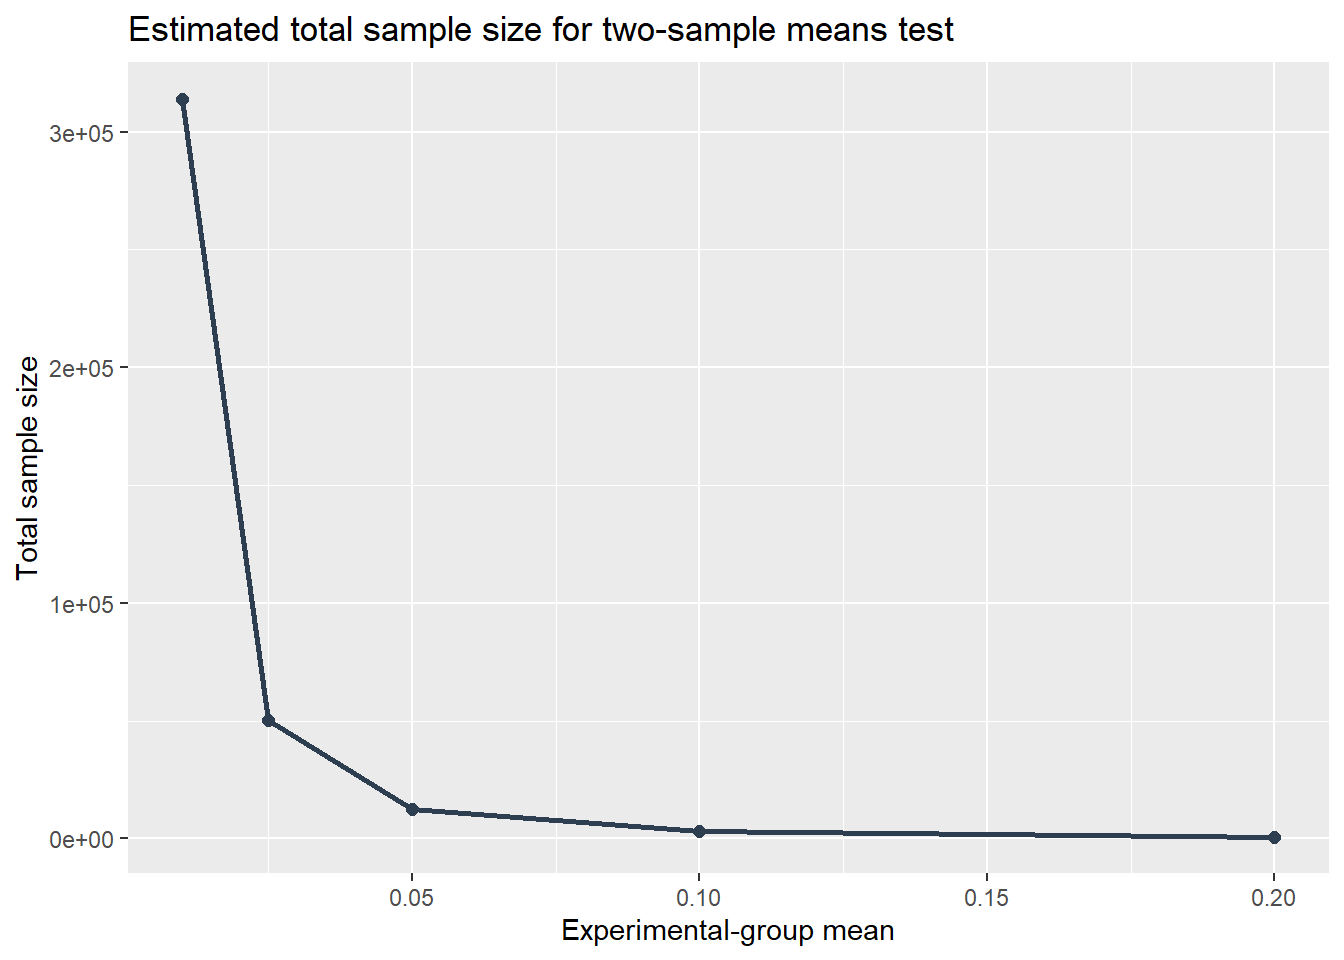
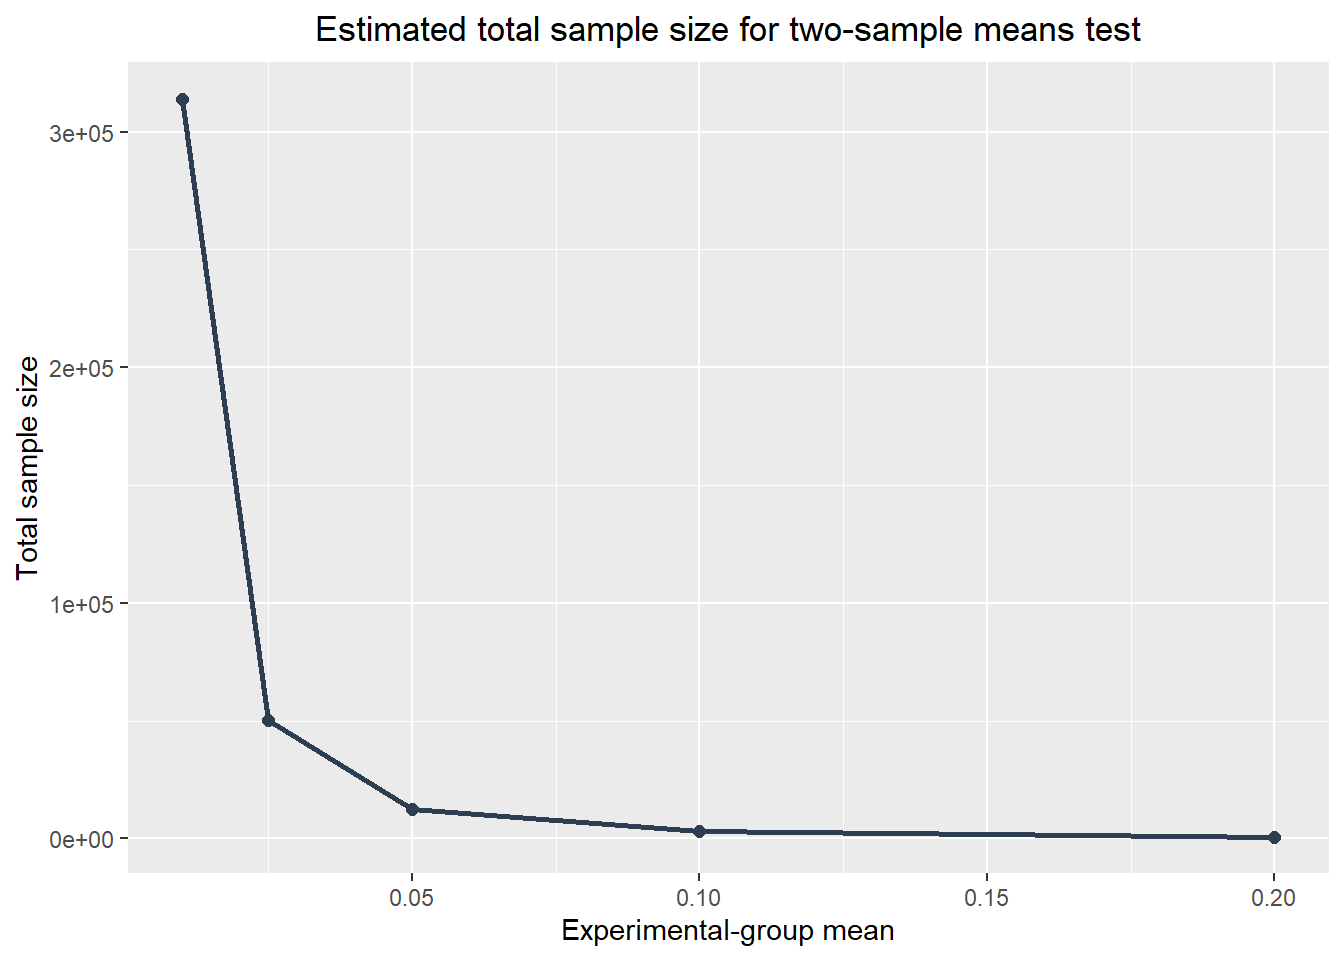
Added pic

Changed region(s): [[0.0938, 0.0, 0.8438, 0.0625]]

diff --git a/docs/posts/Power Calculations Using Stata - Unclustered RCT/index.html b/docs/posts/Power Calculations Using Stata - Unclustered RCT/index.html
@@ -388,7 +388,8 @@ Ho: m2 = m1  versus  Ha: m2 != m1
 <span>  <span class="fu"><a href="https://ggplot2.tidyverse.org/reference/geom_point.html">geom_point</a></span><span class="op">(</span>color <span class="op">=</span> <span class="st">"#2c3e50"</span>, size <span class="op">=</span> <span class="fl">2</span><span class="op">)</span> <span class="op">+</span> <span class="co"># add a geometric point to the plot </span></span>
 <span>  <span class="fu"><a href="https://ggplot2.tidyverse.org/reference/labs.html">labs</a></span> <span class="op">(</span>title <span class="op">=</span> <span class="st">"Estimated total sample size for two-sample means test"</span>,</span>
 <span>        x <span class="op">=</span> <span class="st">"Experimental-group mean"</span>,</span>
-<span>        y <span class="op">=</span> <span class="st">"Total sample size"</span><span class="op">)</span> <span class="co"># add labels</span></span></code><button title="Copy to Clipboard" class="code-copy-button"><i class="bi"></i></button></pre></div>
+<span>        y <span class="op">=</span> <span class="st">"Total sample size"</span><span class="op">)</span> <span class="op">+</span> <span class="co"># add labels</span></span>
+<span>        <span class="fu"><a href="https://ggplot2.tidyverse.org/reference/theme.html">theme</a></span><span class="op">(</span>plot.title <span class="op">=</span> <span class="fu"><a href="https://ggplot2.tidyverse.org/reference/element.html">element_text</a></span><span class="op">(</span>hjust <span class="op">=</span> <span class="fl">0.5</span><span class="op">)</span><span class="op">)</span> </span></code><button title="Copy to Clipboard" class="code-copy-button"><i class="bi"></i></button></pre></div>
 <div class="cell-output-display">
 <p><img src="index_files/figure-html/unnamed-chunk-5-1.png" class="img-fluid" width="672"></p>
 </div>

diff --git a/docs/data analytics.html b/docs/data analytics.html
@@ -225,7 +225,7 @@ Harlow Malloc
 </a>
 </div>
 </div>
-<div class="quarto-post image-right" data-index="1" data-categories="Power Calculations,Survey" data-listing-date-sort="1699294500000" data-listing-file-modified-sort="1710440776524" data-listing-date-modified-sort="NaN" data-listing-reading-time-sort="8">
+<div class="quarto-post image-right" data-index="1" data-categories="Power Calculations,Survey" data-listing-date-sort="1699294500000" data-listing-file-modified-sort="1710441005589" data-listing-date-modified-sort="NaN" data-listing-reading-time-sort="8">
 <div class="thumbnail">
 <p><a href="./posts/Power Calculations Using Stata - Unclustered RCT/index.html"> <img src="./posts/Power Calculations Using Stata - Unclustered RCT/image.jpg" class="thumbnail-image"> </a></p>
 </div>
